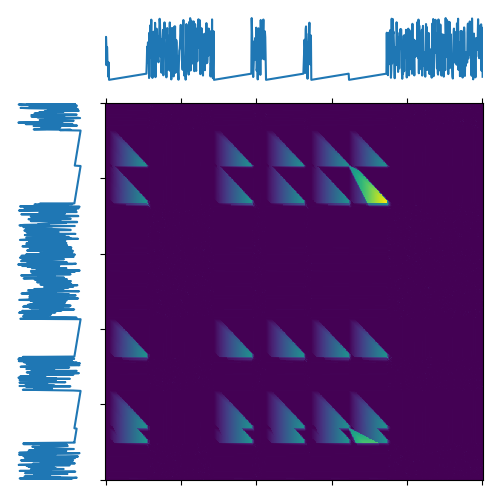
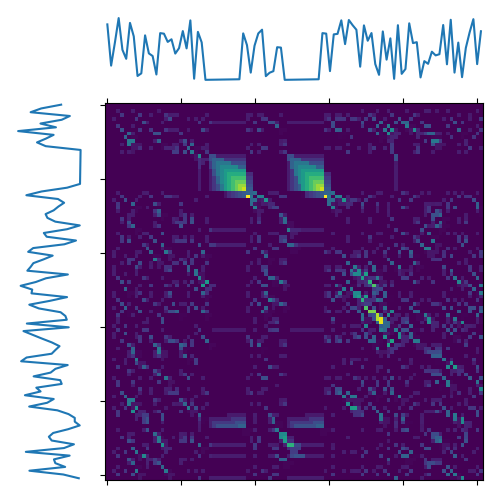
feat: best candidate done

Changed region(s): [[0.21, 0.21, 0.99, 0.96], [0.21, 0.03, 0.99, 0.18], [0.03, 0.18, 0.18, 0.96]]

diff --git a/src/locomotif-loconsensus/locomotif/loconsensus/candidate_finder.py b/src/locomotif-loconsensus/locomotif/loconsensus/candidate_finder.py
@@ -15,4 +15,112 @@ def find_candidates(
     L_MIN: int,
     L_MAX: int,
 ):
-    pass
+    n = len(start_mask)
+
+    column_start_indices = np.array([path.column_start for path in paths])
+    column_end_indicdes = np.array([path.column_end for path in paths])
+
+    best_start_indices = np.zeros(len(paths), dtype=np.int32)
+    best_end_indices = np.zeros(len(paths), dtype=np.int32)
+
+    crossing_start_indices = np.zeros(len(paths), dtype=np.int32)
+    crossing_end_indices = np.zeros(len(paths), dtype=np.int32)
+
+    best_fitness = 0.0
+    best_candidate = (0, n)
+
+    for start_index in range(n - L_MIN + 1):
+        if not start_mask[start_index]:
+            continue
+
+        start_indices_mask = column_start_indices <= start_index
+
+        for end_index in range(
+            start_index + L_MIN, min(n + 1, start_index + L_MAX + 1)
+        ):
+            if not end_mask[end_index - 1]:
+                continue
+            if np.any(mask[start_index:end_index]):
+                break
+
+            end_indices_mask = column_end_indicdes >= end_index
+            path_mask = start_indices_mask & end_indices_mask
+
+            if not np.any(path_mask[1:]):
+                break
+
+            for path_index in np.flatnonzero(path_mask):
+                path = paths[path_index]
+                # TODO: twee keer find_column???
+                crossing_start_indices[path_index] = path_row = path.find_column(
+                    start_index
+                )
+                crossing_end_indices[path_index] = path_column = path.find_column(
+                    end_index - 1
+                )
+                best_start_indices[path_index] = path[path_row][0]
+                best_end_indices[path_index] = path[path_column][0] + 1
+
+                if np.any(
+                    mask[best_start_indices[path_index] : best_end_indices[path_index]]
+                ):
+                    path_mask[path_index] = False
+
+            if not np.any(path_mask[1:]):
+                break
+
+            sorted_best_start_indices = best_start_indices[path_mask]
+            sorted_best_end_indices = best_end_indices[path_mask]
+            sorted_best_indices = np.argsort(sorted_best_start_indices)
+            sorted_best_start_indices = sorted_best_start_indices[sorted_best_indices]
+            sorted_best_end_indices = sorted_best_end_indices[sorted_best_indices]
+
+            overlap = sorted_best_end_indices - sorted_best_start_indices
+            overlap[:-1] = np.minimum(overlap[:-1], overlap[1:])
+            overlaps = np.maximum(
+                sorted_best_end_indices[:-1] - sorted_best_start_indices[1:] - 1, 0
+            )
+
+            # TODO: overlap param
+            if np.any(overlaps > 0.0 * overlap[:-1]):
+                continue
+
+            coverage = np.sum(
+                sorted_best_end_indices - sorted_best_start_indices
+            ) - np.sum(overlaps)
+            coverage_amount = (coverage - (end_index - start_index)) / float(n)
+
+            score = 0
+            for path_index in np.flatnonzero(path_mask):
+                score += (
+                    paths[path_index].cumulative_path_similarity[
+                        crossing_end_indices[path_index] + 1
+                    ]
+                    - paths[path_index].cumulative_path_similarity[
+                        crossing_start_indices[path_index]
+                    ]
+                )
+            score_amount = (score - (end_index - start_index)) / float(
+                np.sum(
+                    crossing_end_indices[path_mask]
+                    - crossing_start_indices[path_mask]
+                    + 1
+                )
+            )
+
+            fit = 0.0
+            if coverage_amount != 0 or score_amount != 0:
+                fit = (
+                    2
+                    * (coverage_amount * score_amount)
+                    / (coverage_amount + score_amount)
+                )
+
+            if fit == 0.0:
+                continue
+
+            if fit > best_fitness:
+                best_candidate = (start_index, end_index)
+                best_fitness = fit
+
+    return best_candidate, best_fitness

diff --git a/src/locomotif-loconsensus/locomotif/loconsensus/path.py b/src/locomotif-loconsensus/locomotif/loconsensus/path.py
@@ -2,12 +2,50 @@ import numpy as np
 
 
 class Path:
-    def __init__(self, path, path_similarities):
+    def __init__(self, path: np.ndarray, path_similarities: np.ndarray):
         self.path = path
         self.path_similarities = path_similarities
         self.cumulative_path_similarity = np.concatenate(
             (np.array([0, 0]), np.cumsum(self.path_similarities))
         )
+        self.row_start = path[0][0]
+        self.row_end = path[len(path) - 1][0] + 1
+        self.column_start = path[0][1]
+        self.column_end = path[len(path) - 1][1] + 1
+        self.construct_indices(path)
 
-    def __getiten__(self, i):
-        return self.path[i, :]
+    def construct_indices(self, path: np.ndarray) -> None:
+        current_row = self.row_start
+        current_column = self.column_start
+
+        row_indices = np.zeros(self.row_end - self.row_start, dtype=np.int32)
+        column_indices = np.zeros(self.column_end - self.column_start, dtype=np.int32)
+
+        for path_index in range(1, len(path)):
+            if path[path_index][0] != current_row:
+                row_indices[
+                    current_row - self.row_start + 1 : path[path_index][0]
+                    - self.row_start
+                    + 1
+                ] = path_index
+                current_row = path[path_index][0]
+
+            if path[path_index][1] != current_column:
+                column_indices[
+                    current_column - self.column_start + 1 : path[path_index][1]
+                    - self.column_start
+                    + 1
+                ] = path_index
+                current_column = path[path_index][1]
+
+        self.row_indices = row_indices
+        self.column_indices = column_indices
+
+    def find_row(self, row):
+        return self.row_indices[row - self.row_start]
+
+    def find_column(self, column):
+        return self.column_indices[column - self.column_start]
+
+    def __getitem__(self, row):
+        return self.path[row, :]

diff --git a/app/app.py b/app/app.py
@@ -9,8 +9,8 @@ from locomotif.loconsensus import similarity_matrix as sm
 from locomotif.loconsensus import timeseries_generator as tsg
 
 logging.basicConfig(
-    level=logging.INFO,
-    # level=logging.DEBUG,
+    # level=logging.INFO,
+    level=logging.DEBUG,
     format='%(asctime)s - %(name)s - %(levelname)s - %(message)s',
 )
 
@@ -25,11 +25,11 @@ if __name__ == '__main__':
     LOGGER = logging.getLogger(__name__)
 
     # generate two basic timeseries for testing
-    pattern = [i for i in range(1, 101)]
-    ts1: np.ndarray = tsg.generate_timeseries(1000, pattern, 5)
+    pattern = [i for i in range(1, 11)]
+    ts1: np.ndarray = tsg.generate_timeseries(100, pattern, 2)
     ts1: np.ndarray = utils.z_normalize(ts1)
     LOGGER.debug(msg=f'timeseries 1: {ts1.flatten()}')
-    ts2: np.ndarray = tsg.generate_timeseries(1000, pattern, 5)
+    ts2: np.ndarray = tsg.generate_timeseries(100, pattern, 2)
     ts2: np.ndarray = utils.z_normalize(ts2)
     LOGGER.debug(msg=f'timeseries 2: {ts2.flatten()}')
 
@@ -53,11 +53,11 @@ if __name__ == '__main__':
     fig.savefig('csm.png')
 
     # find the best paths
-    found_paths = path_finder.find_paths(csm1, STEP_SIZES, L_MIN)
+    found_paths: list[np.ndarray] = path_finder.find_paths(csm1, STEP_SIZES, L_MIN)
     LOGGER.info(msg=f'Found {len(found_paths)} paths.')
 
     # create a Path() for each path including the similarity information
-    paths = []
+    paths: list[path_class.Path] = []
     for found_path in found_paths:
         rows, columns = found_path[:, 0], found_path[:, 1]
         path_similarities = sm1[rows, columns]
@@ -67,3 +67,5 @@ if __name__ == '__main__':
         axs, [path_object.path for path_object in paths], lw=1
     )
     fig.savefig('paths.png')
+
+    mf.find_motifs(2, len(ts1), len(ts2), paths, L_MIN, L_MAX)

diff --git a/src/locomotif-loconsensus/locomotif/loconsensus/motif_finder.py b/src/locomotif-loconsensus/locomotif/loconsensus/motif_finder.py
@@ -9,17 +9,29 @@ LOGGER = logging.getLogger(__name__)
 
 
 def find_motifs(
-    max_amount: int, n: int, m: int
+    max_amount: int,
+    n: int,
+    m: int,
+    paths: list[path_class.Path],
+    L_MIN: int,
+    L_MAX: int,
 ) -> Generator[tuple[tuple[int, int], list[path_class.Path], np.ndarray], None, None]:
-    start_mask = np.full((n, m), True)
-    end_mask = np.full((n, m), True)
-    mask = np.full((n, m), True)
+    max_length = max(n, m)
+    start_mask = np.full(max_length, True)
+    end_mask = np.full(max_length, True)
+    mask = np.full(max_length, False)
     amount = 0
     while amount < max_amount:
-        if np.all(mask) or not np.any(start_mask) or not np.any(mask):
+        if np.all(mask) or not np.any(start_mask) or not np.any(end_mask):
             break
 
         start_mask[mask] = False
         end_mask[mask] = False
 
-    (b, e), best_fitness, fitness = cf.find_candidates()
+        best_candidate, best_fitness = cf.find_candidates(
+            start_mask, end_mask, mask, paths, L_MIN, L_MAX
+        )
+
+        LOGGER.debug(
+            msg=f'Best candidate: {best_candidate}\nBest fitness: {best_fitness}'
+        )
